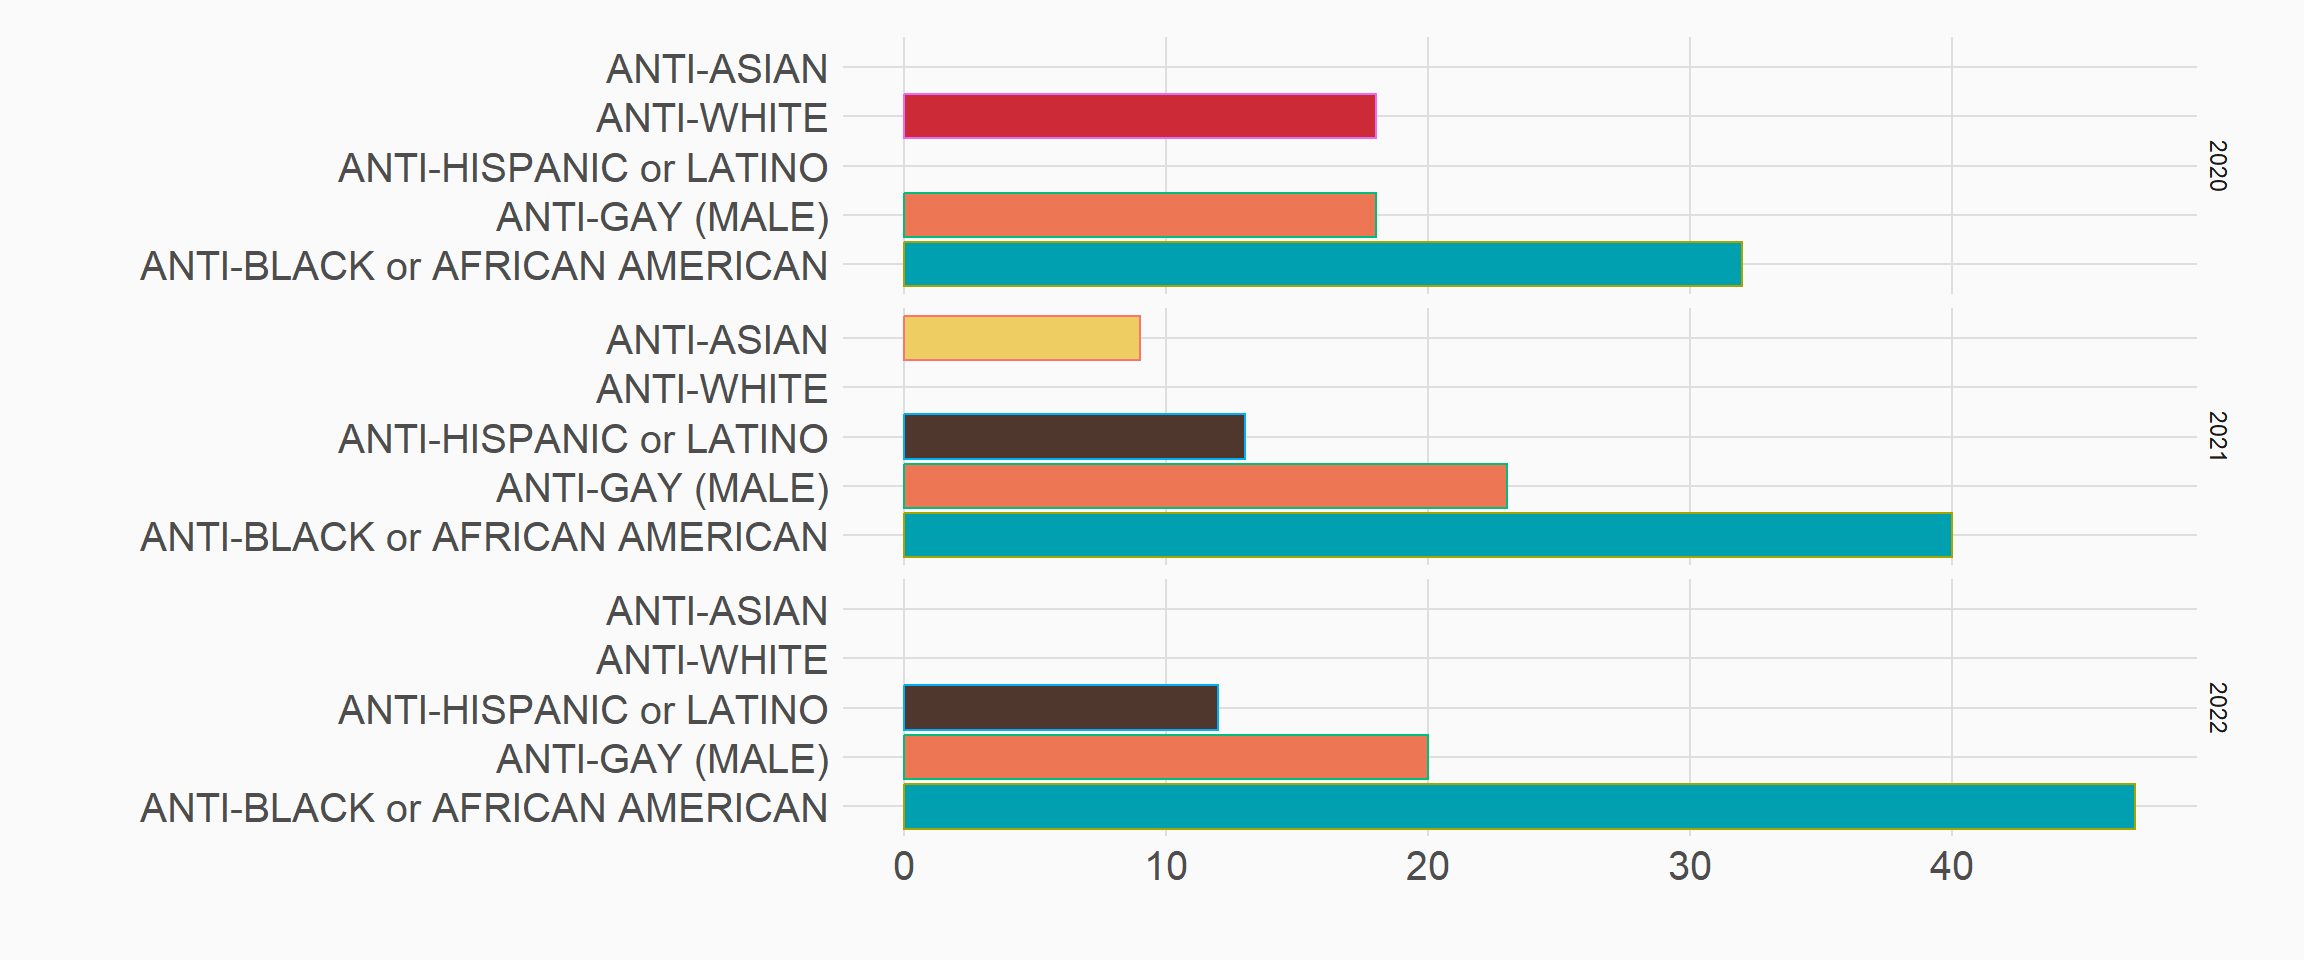
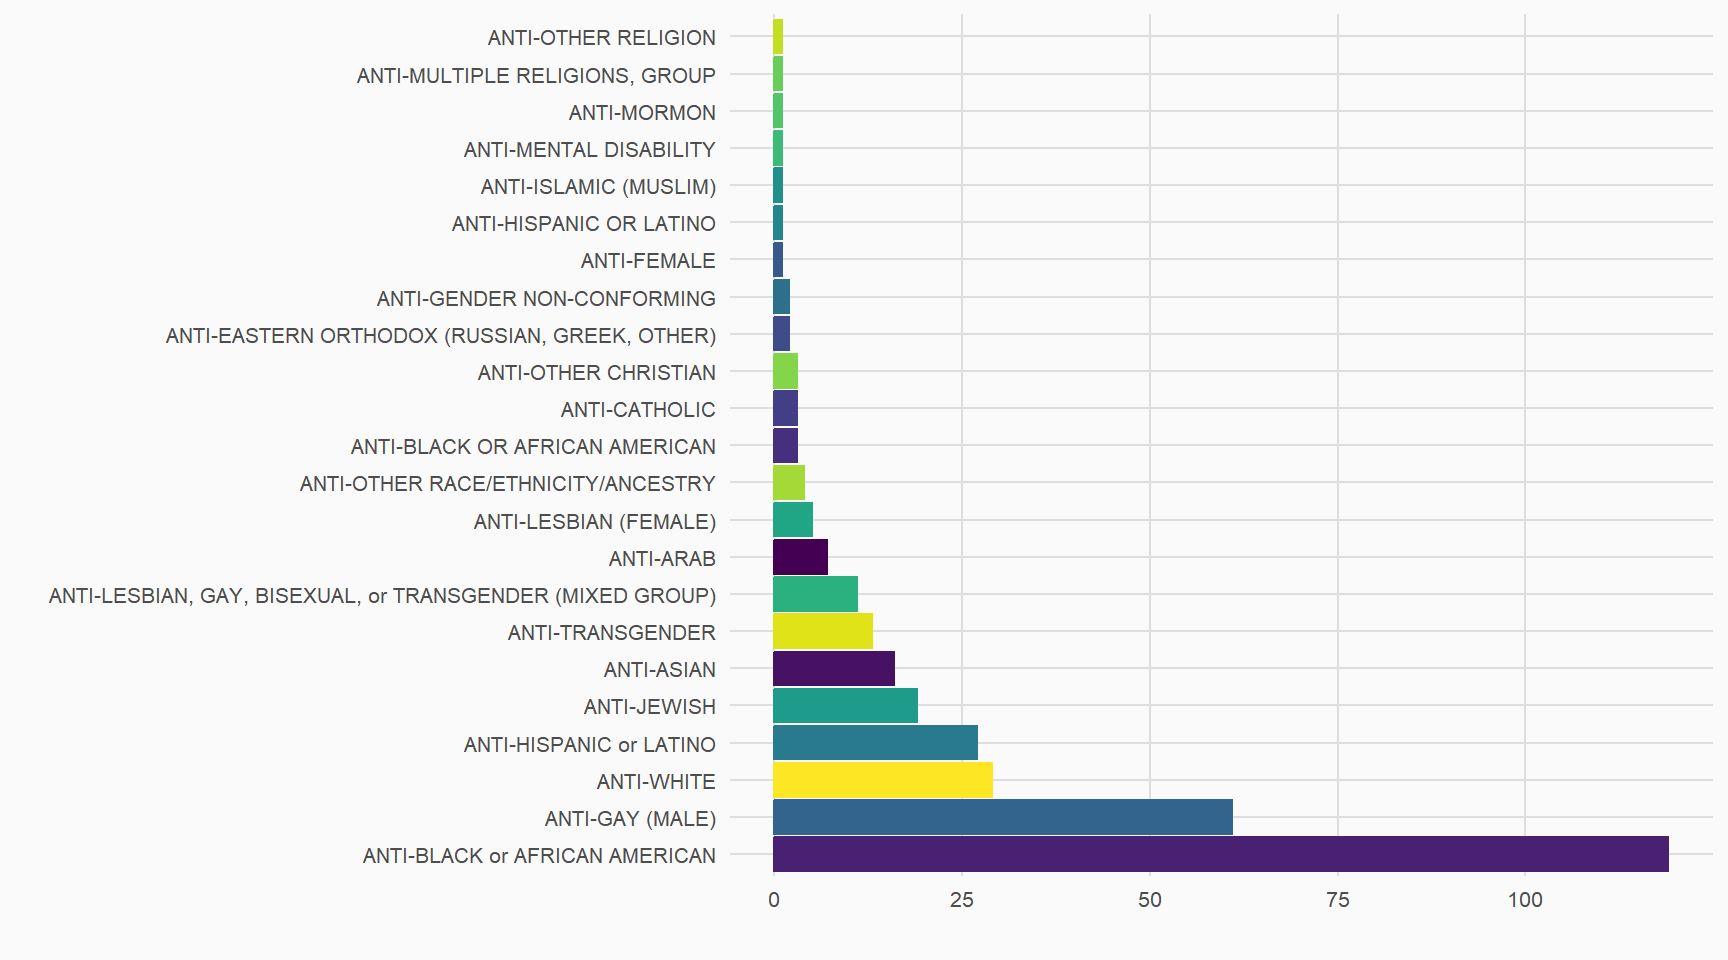
sv

Changed region(s): [[0.0312, 0.0312, 0.9688, 0.9375], [0.9375, 0.125, 0.9688, 0.2188]]

diff --git a/docs/social/biascrimes/biascrime.html b/docs/social/biascrimes/biascrime.html
@@ -171,36 +171,21 @@ ul.task-list li input[type="checkbox"] {
 </div>
 </div>
 <div class="cell">
-<div class="cell-output-display">
-<p><img src="biascrime_files/figure-html/unnamed-chunk-2-1.png" class="img-fluid" width="672"></p>
+
 </div>
-<div class="cell-output cell-output-stdout">
-<pre><code>&lt;ggproto object: Class FacetGrid, Facet, gg&gt;
-    compute_layout: function
-    draw_back: function
-    draw_front: function
-    draw_labels: function
-    draw_panels: function
-    finish_data: function
-    init_scales: function
-    map_data: function
-    params: list
-    setup_data: function
-    setup_params: function
-    shrink: TRUE
-    train_scales: function
-    vars: function
-    super:  &lt;ggproto object: Class FacetGrid, Facet, gg&gt;</code></pre>
+<div class="cell">
+<div class="cell-output-display">
+<p><img src="biascrime_files/figure-html/unnamed-chunk-3-1.png" class="img-fluid" width="864"></p>
 </div>
 </div>
 <div class="cell">
 <div class="cell-output-display">
-<p><img src="biascrime_files/figure-html/unnamed-chunk-3-1.png" class="img-fluid" width="672"></p>
+<p><img src="biascrime_files/figure-html/unnamed-chunk-4-1.png" class="img-fluid" width="864"></p>
 </div>
 </div>
 <div class="cell">
 <div class="cell-output-display">
-<p><img src="biascrime_files/figure-html/unnamed-chunk-4-1.gif" class="img-fluid"></p>
+<p><img src="biascrime_files/figure-html/unnamed-chunk-5-1.gif" class="img-fluid"></p>
 </div>
 </div>
 

diff --git a/docs/portfolio.html b/docs/portfolio.html
@@ -185,7 +185,7 @@ background: #000080;
 
 <div class="quarto-listing quarto-listing-container-grid" id="listing-listing">
 <div class="list grid quarto-listing-cols-3">
-<div class="g-col-1" data-index="0" data-categories="Crime,Community,analysis,Quarto,Rstudio" data-listing-date-sort="1677744000000" data-listing-file-modified-sort="1677972578342" data-listing-reading-time-sort="4.4">
+<div class="g-col-1" data-index="0" data-categories="Crime,Community,analysis,Quarto,Rstudio" data-listing-date-sort="1677744000000" data-listing-file-modified-sort="1677973169707" data-listing-reading-time-sort="4.46">
 <a href="./social/biascrimes/biascrime.html" class="quarto-grid-link">
 <div class="quarto-grid-item card h-100 card-left">
 <p class="card-img-top">
